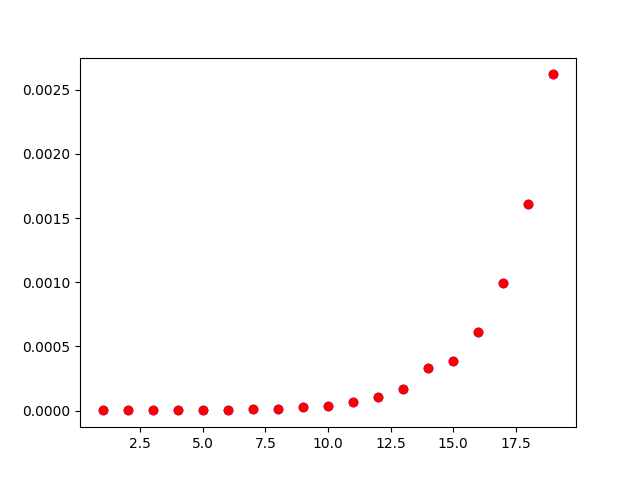
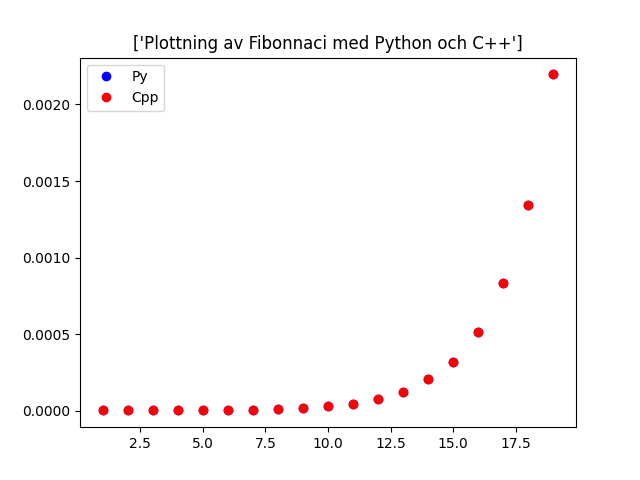
Added files for MA4 and plot

diff --git a/MA4_files/MA4_2.py b/MA4_files/MA4_2.py
@@ -41,5 +41,7 @@ if __name__ == '__main__':
 		tid_cpp.append(end-start)
 	plt.plot(n,tid_py,'bo')
 	plt.plot(n,tid_cpp,'ro')
+	plt.legend(['Py','Cpp'])
+	plt.title(['Plottning av Fibonnaci med Python och C++'])
 	plt.savefig('MA4_testplot.png')
 	main()
